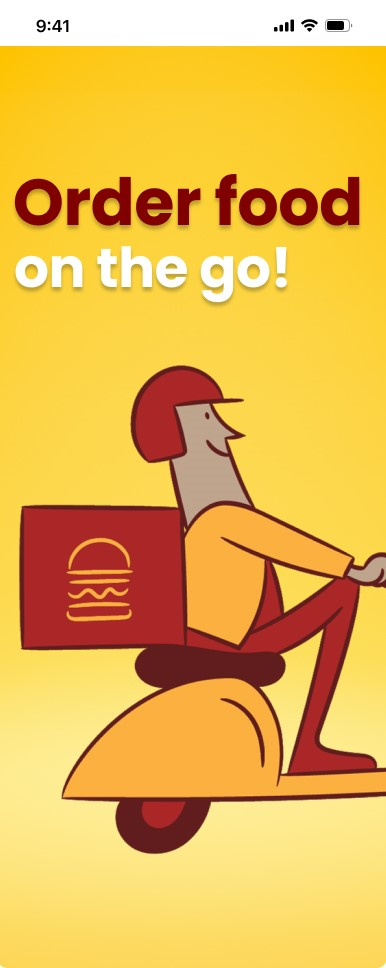
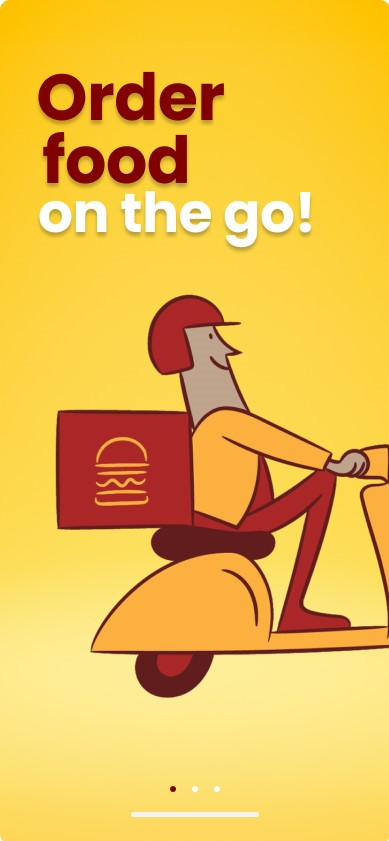
ADSSSS

diff --git a/src/main/java/com/canteam/Byte/Controllers/AdController.java b/src/main/java/com/canteam/Byte/Controllers/AdController.java
@@ -1,16 +1,39 @@
 package com.canteam.Byte.Controllers;
 
 import javafx.fxml.FXML;
+import javafx.scene.image.Image;
 import javafx.scene.image.ImageView;
 import javafx.scene.input.MouseEvent;
+
+import java.util.Objects;
 
 public class AdController {
 
     @FXML
     private ImageView AdOne;
+    private PageNavigator pageNavigator = new PageNavigator();
+
+    Image imageTwo = new Image(Objects.requireNonNull(getClass().getResourceAsStream("/com/canteam/Byte/assets/images/CuisineType/Ads_pg2.jpg")));
+    Image imageThree = new Image(Objects.requireNonNull(getClass().getResourceAsStream("/com/canteam/Byte/assets/images/CuisineType/Ads_pg3.jpg")));
+
+
+    private int ad = 0;
 
     @FXML
     void onClickAdOne(MouseEvent event) {
+
+        ad++;
+
+        if (ad == 1) {
+            AdOne.setImage(imageTwo);
+        } else if (ad == 2) {
+            AdOne.setImage(imageThree);
+        }
+        else if (ad == 3) {
+            pageNavigator.navigateToPage(AdOne, "Home");
+        }
+
+
 
     }
 

diff --git a/src/main/java/com/canteam/Byte/Controllers/LocationController.java b/src/main/java/com/canteam/Byte/Controllers/LocationController.java
@@ -69,8 +69,9 @@ public class LocationController implements Initializable {
         newUserAlert.setVisible(true);
 
         if (UserModel.isNewUser()){
+            pageNavigator.navigateToPage(saveChangesButton, "Ads");
             UserModel.setNewOldUser(false);
-            pageNavigator.navigateToPage(saveChangesButton, "Home");
+
         }
     }
 
